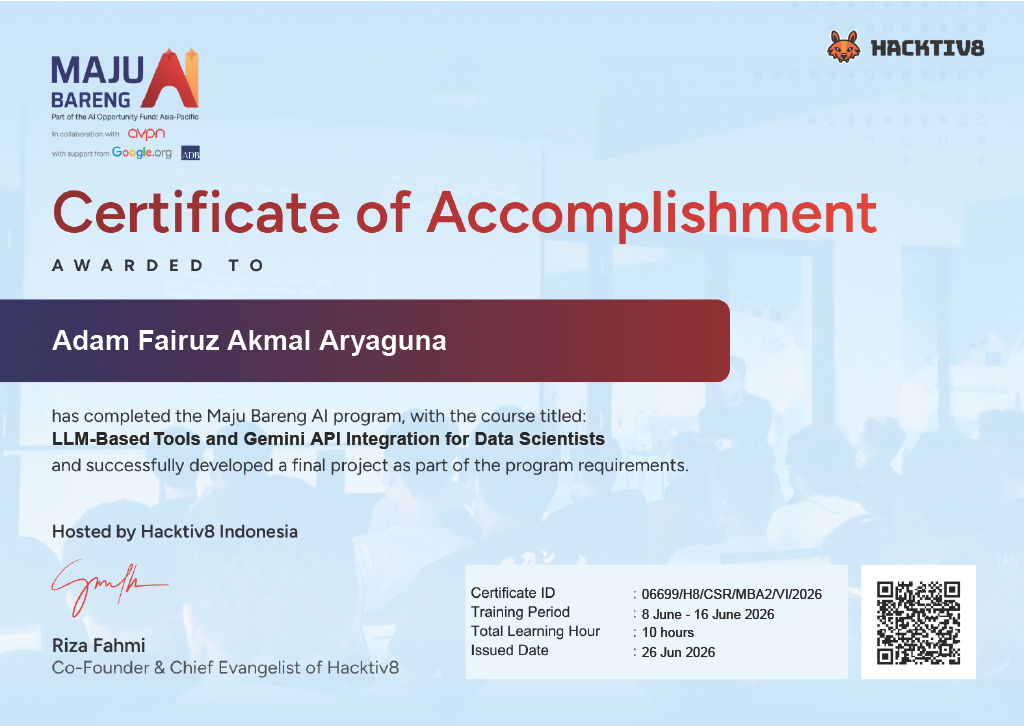
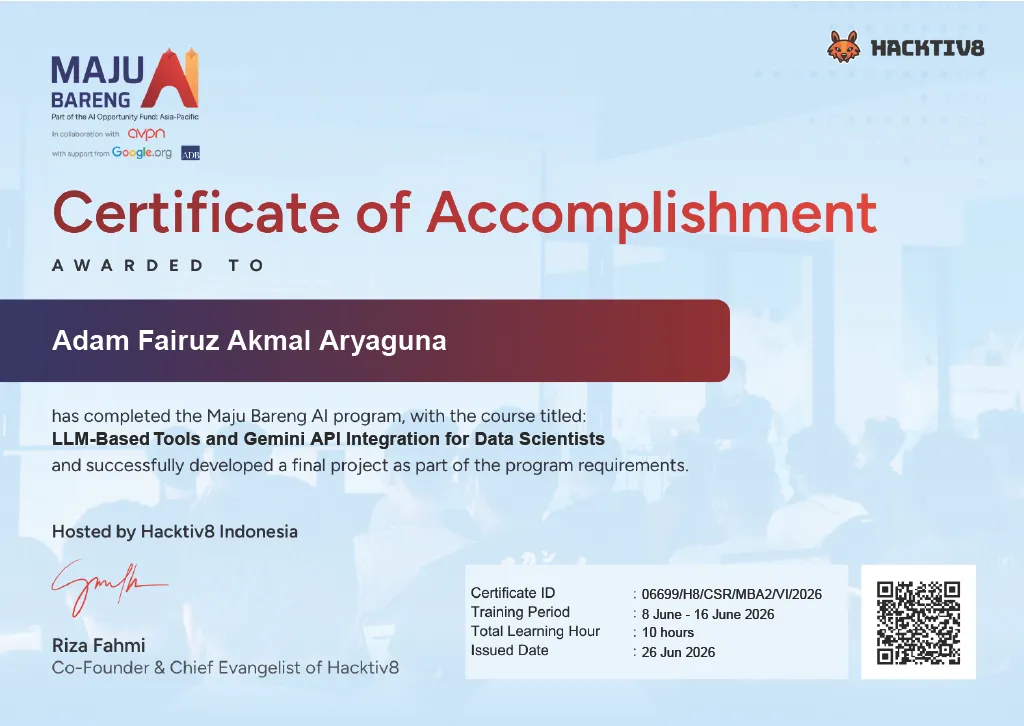
perf: compress large assets to webp
og-image 3.8MB PNG -> 62KB webp at 1200x630, compress Sertif20/21 and ThreadsAutomation screenshots. Total ~5MB saved. Update og-image references in index.html

diff --git a/Gipsy/index.html b/Gipsy/index.html
@@ -18,7 +18,7 @@
     <meta property="og:url" content="https://gipsy-dev.me/" />
     <meta property="og:title" content="Adam Fairuz Akmal Aryaguna — Gipsy.Dev | Fullstack Engineer" />
     <meta property="og:description" content="Portfolio Adam Fairuz Akmal Aryaguna (Gipsy.Dev) — Fullstack Engineer, Web Developer, dan AI Engineer." />
-    <meta property="og:image" content="https://gipsy-dev.me/og-image.png" />
+    <meta property="og:image" content="https://gipsy-dev.me/og-image.webp" />
     <meta property="og:image:width" content="1200" />
     <meta property="og:image:height" content="630" />
     <meta property="og:image:alt" content="Gipsy.Dev Portfolio" />
@@ -30,7 +30,7 @@
     <meta name="twitter:url" content="https://gipsy-dev.me/" />
     <meta name="twitter:title" content="Adam Fairuz Akmal Aryaguna — Gipsy.Dev | Fullstack Engineer" />
     <meta name="twitter:description" content="Portfolio Adam Fairuz Akmal Aryaguna (Gipsy.Dev) — Fullstack Engineer, Web Developer, dan AI Engineer." />
-    <meta name="twitter:image" content="https://gipsy-dev.me/og-image.png" />
+    <meta name="twitter:image" content="https://gipsy-dev.me/og-image.webp" />
 
     <!-- Favicon -->
     <link rel="icon" type="image/png" href="/logo.png" />
@@ -60,7 +60,7 @@
       "name": "Adam Fairuz Akmal Aryaguna",
       "alternateName": "Gipsy.Dev",
       "url": "https://gipsy-dev.me",
-      "image": "https://gipsy-dev.me/og-image.png",
+      "image": "https://gipsy-dev.me/og-image.webp",
       "jobTitle": "Fullstack Engineer",
       "description": "Fullstack Engineer, Web Developer, dan AI Engineer. 9 project portfolio termasuk Socrapper, RightToBeForgotten, dan Threads Content Automation.",
       "sameAs": [
